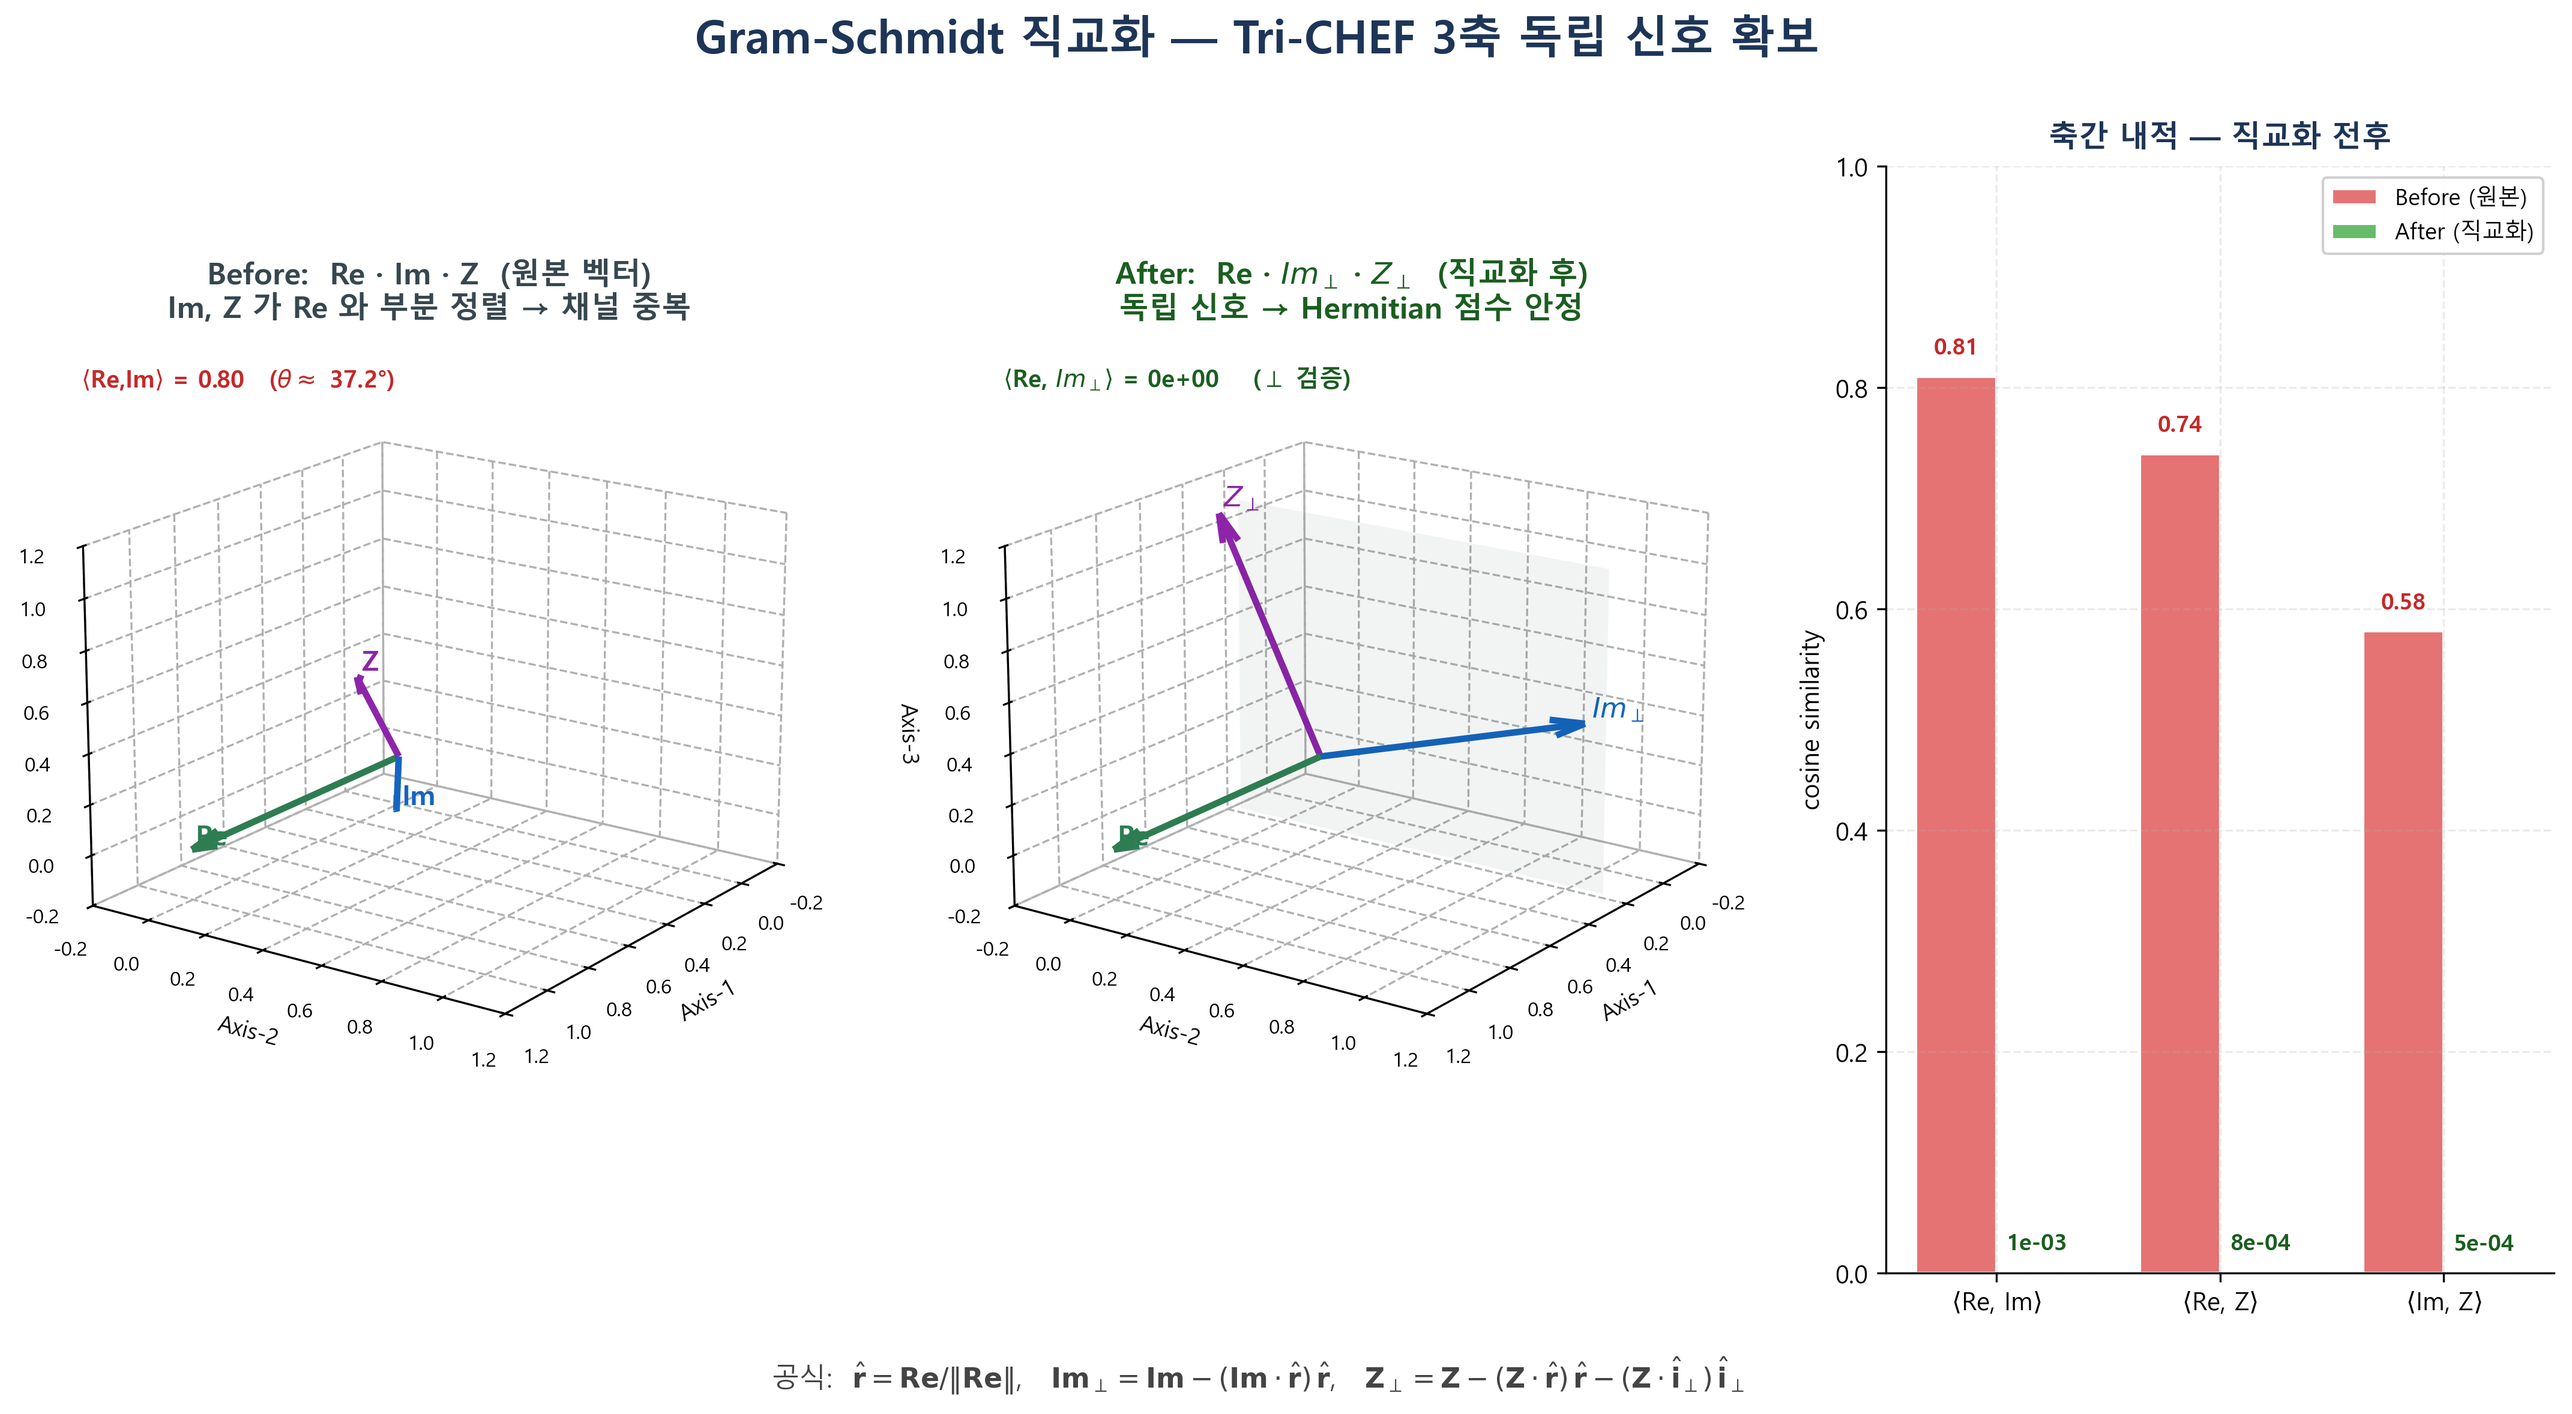
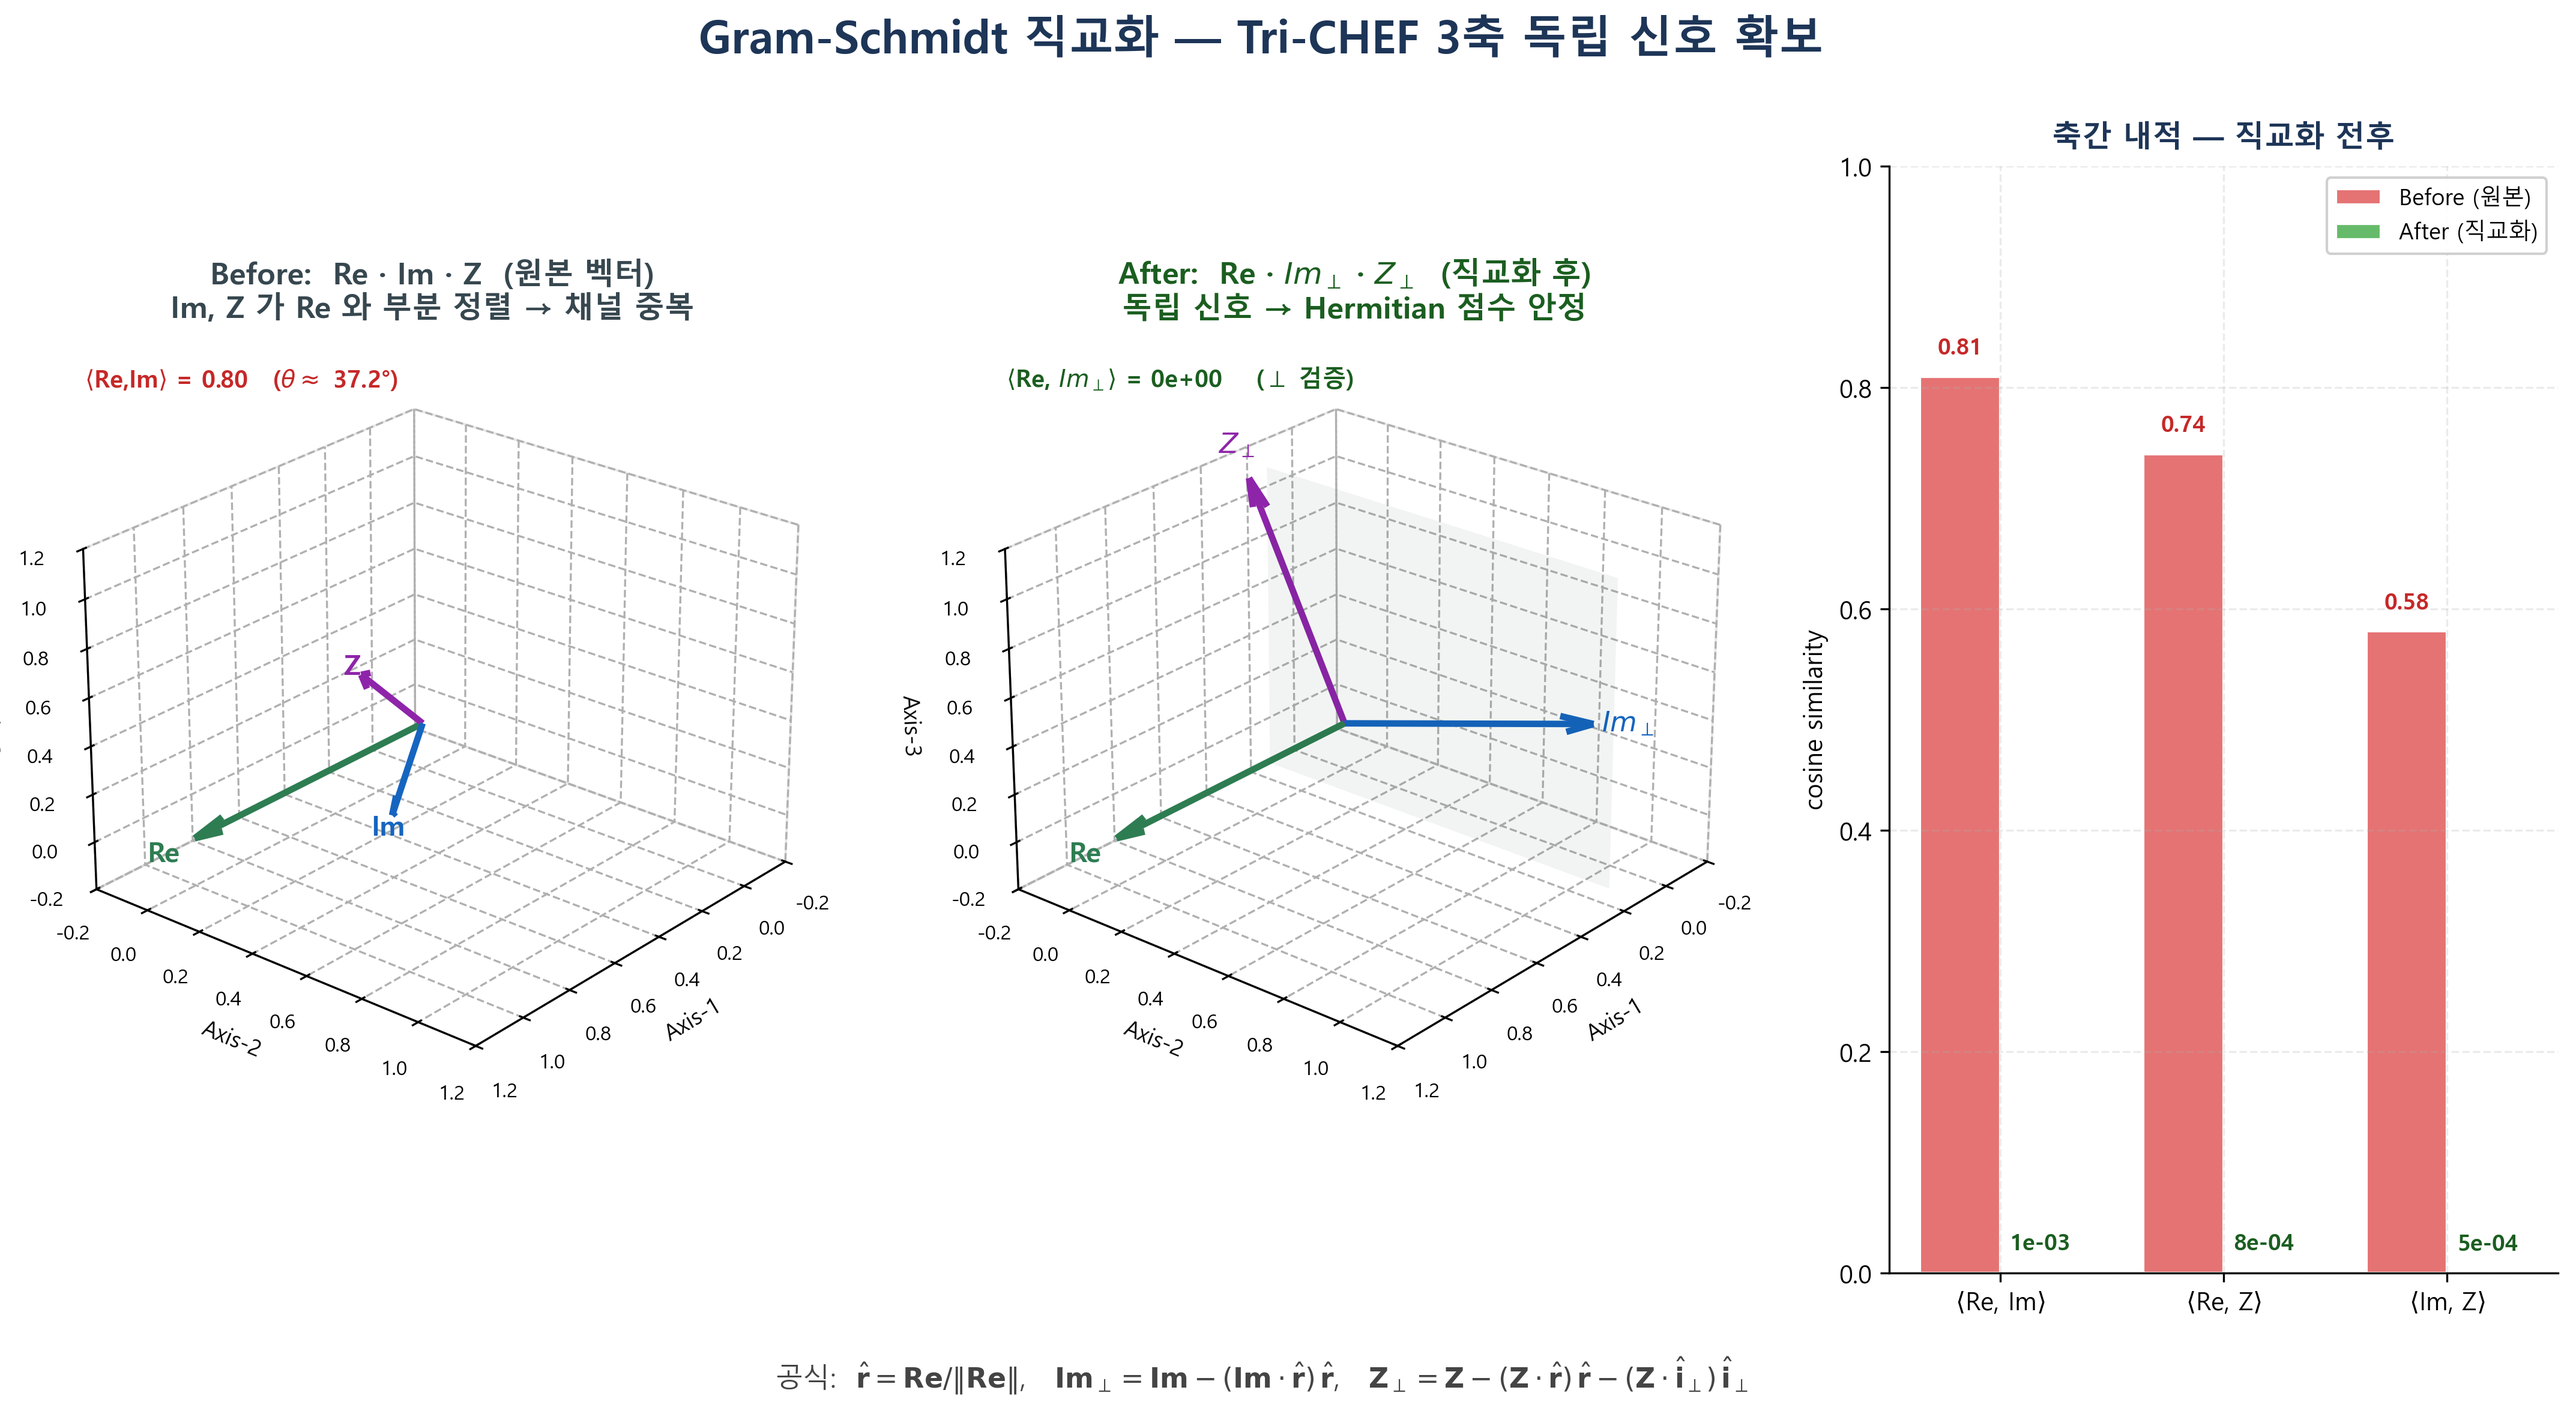
Fig04 수정

diff --git a/Figures/v2/fig04_gram_schmidt_3d.py b/Figures/v2/fig04_gram_schmidt_3d.py
@@ -25,14 +25,20 @@ def gram_schmidt_3(re, im, z):
 
 
 def draw_arrow_3d(ax, origin, vec, color, label=None, lw=2.6, alpha=1.0,
-                  ls="-", labelpad=0.06):
-    a = np.array(origin); b = np.array(origin) + np.array(vec)
-    ax.quiver(a[0], a[1], a[2], vec[0], vec[1], vec[2],
+                  ls="-", labelpad=0.13):
+    a = np.array(origin, dtype=float)
+    v = np.array(vec, dtype=float)
+    b = a + v
+    ax.quiver(a[0], a[1], a[2], v[0], v[1], v[2],
               color=color, linewidth=lw, arrow_length_ratio=0.12,
               alpha=alpha, linestyle=ls)
     if label:
-        ax.text(b[0] + labelpad, b[1] + labelpad, b[2] + labelpad,
-                label, fontsize=11, fontweight="bold", color=color)
+        # 벡터 방향으로 오프셋 → 화살표 팁과 겹치지 않음
+        direction = v / np.linalg.norm(v)
+        tip = b + direction * labelpad
+        ax.text(tip[0], tip[1], tip[2],
+                label, fontsize=11, fontweight="bold", color=color,
+                ha="center", va="center")
 
 
 def panel_before(ax):
@@ -97,11 +103,12 @@ def _setup_axes(ax):
     ax.set_ylabel("Axis-2", fontsize=9, labelpad=2)
     ax.set_zlabel("Axis-3", fontsize=9, labelpad=2)
     ax.tick_params(labelsize=8)
-    ax.view_init(elev=18, azim=35)
-    # 가벼운 그리드 스타일
-    ax.xaxis.pane.fill = False
-    ax.yaxis.pane.fill = False
-    ax.zaxis.pane.fill = False
+    ax.view_init(elev=25, azim=40)
+    # 면 완전 투명 — 화살표가 pane 뒤에 숨지 않도록
+    for pane in (ax.xaxis.pane, ax.yaxis.pane, ax.zaxis.pane):
+        pane.fill = False
+        pane.set_facecolor((0.0, 0.0, 0.0, 0.0))
+        pane.set_edgecolor("lightgray")
 
 
 def panel_dot(ax):
